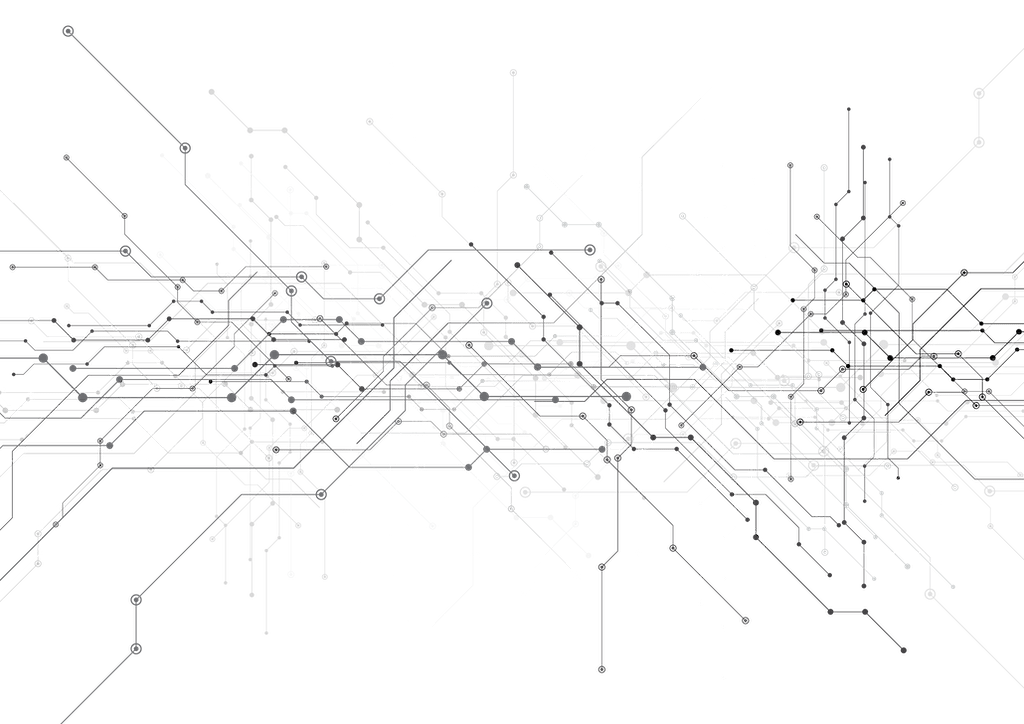
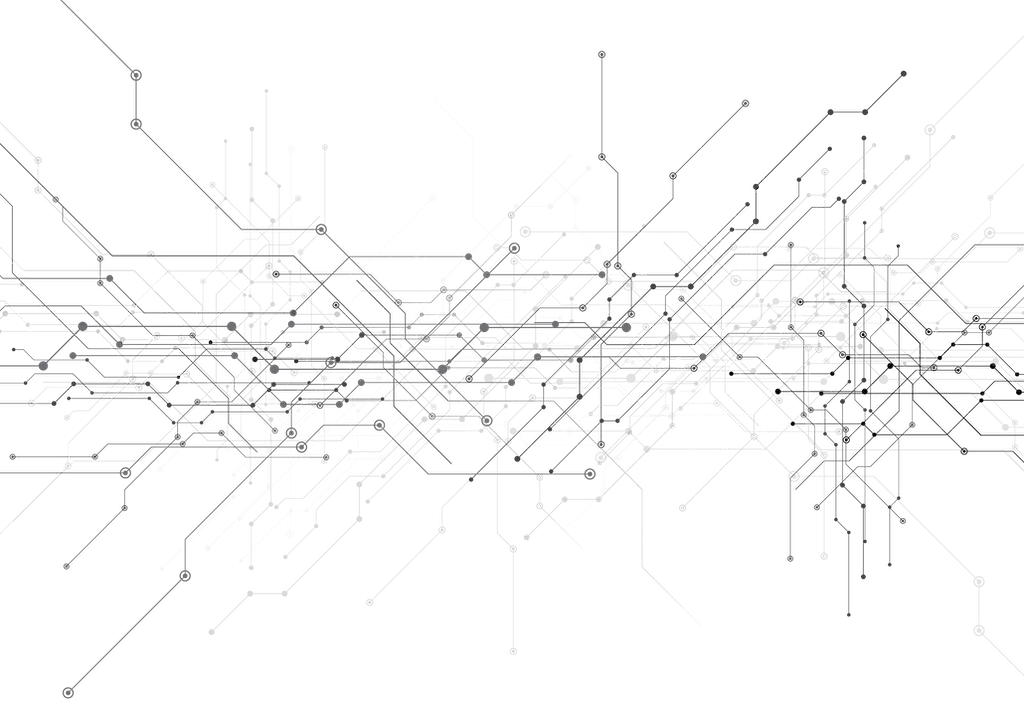
more style updates

diff --git a/style.scss b/style.scss
@@ -153,6 +153,11 @@ img {
 .wrapper-masthead {
   margin-bottom: 50px;
   background: $lightGray;
+  background-image: url('/images/bg1-min.png');
+  background-position: bottom center;
+  background-repeat: no-repeat;
+  padding: 5vh 0;
+  background-image: url('/images/bg1-min.png'), linear-gradient($lightGray 75%, $white ); /* W3C */
 }
 
 .masthead {
@@ -164,17 +169,17 @@ img {
   }
 }
 
-.site-avatar-wrapper{
+// .site-avatar-wrapper{
   
-  width: 111px;
-  height: 111px;
-  background-image: url('/images/bg2-min.png');
-  background-position: center top;
+//   width: 111px;
+//   height: 111px;
+//   background-image: url('/images/bg2-min.png');
+//   background-position: center top;
 
-  @include mobile {
+//   @include mobile {
   
-  }
-}
+//   }
+// }
 
 
 .site-avatar {
@@ -287,9 +292,18 @@ nav {
 
 .wrapper-footer {
   margin-top: 50px;
-  border-top: 1px solid #575757;
-  border-bottom: 1px solid #575757;
+  // border-top: 1px solid #575757;
+  // border-bottom: 1px solid #575757;
   background-color: $lightGray;
+  background-image: url('/images/bg3-min.png');
+  background-position: center top;
+  background-size:cover;
+  background-repeat: no-repeat;
+  height: 50vh;
+  // background-image: url("IMAGE_URL"); /* fallback */
+  // background-image: url("IMAGE_URL"), linear-gradient(#eb01a5, #d13531); /* W3C */
+  
+  background-image: url('/images/bg3-min.png'), linear-gradient($white,$lightGray 80%); /* W3C */
 }
 
 footer {

diff --git a/about.md b/about.md
@@ -8,5 +8,27 @@ Some information about you!
 
 ### More Information
 
-A place to include any other types of information that you'd like to include about yourself.
+To understand me, how I work and how I would fit in with others I have taken the Clifton strengths assesments:
 
+![cliftondna]({{ site.baseurl }}/images/clifton-strength-dna.png)
+
+**My top strengths are:**
+
+### Developer
+People exceptionally talented in the Developer theme recognize and cultivate the potential in others. They spot the signs of each small improvement and derive satisfaction from evidence of progress.
+
+### Context
+People exceptionally talented in the Context theme enjoy thinking about the past. They understand the present by researching its history.
+
+### Positivity
+People exceptionally talented in the Positivity theme have contagious enthusiasm. They are upbeat and can get others excited about what they are going to do.
+
+### Harmony
+People exceptionally talented in the Harmony theme look for consensus. They don’t enjoy conflict; rather, they seek areas of agreement.
+
+### Arranger
+People exceptionally talented in the Arranger theme can organize, but they also have a flexibility that complements this ability. They like to determine how all of the pieces and resources can be arranged for maximum productivity.
+
+**Complete 34 Strengths:**
+
+![cliftondna]({{ site.baseurl }}/images/clifton-strength-table.png)
